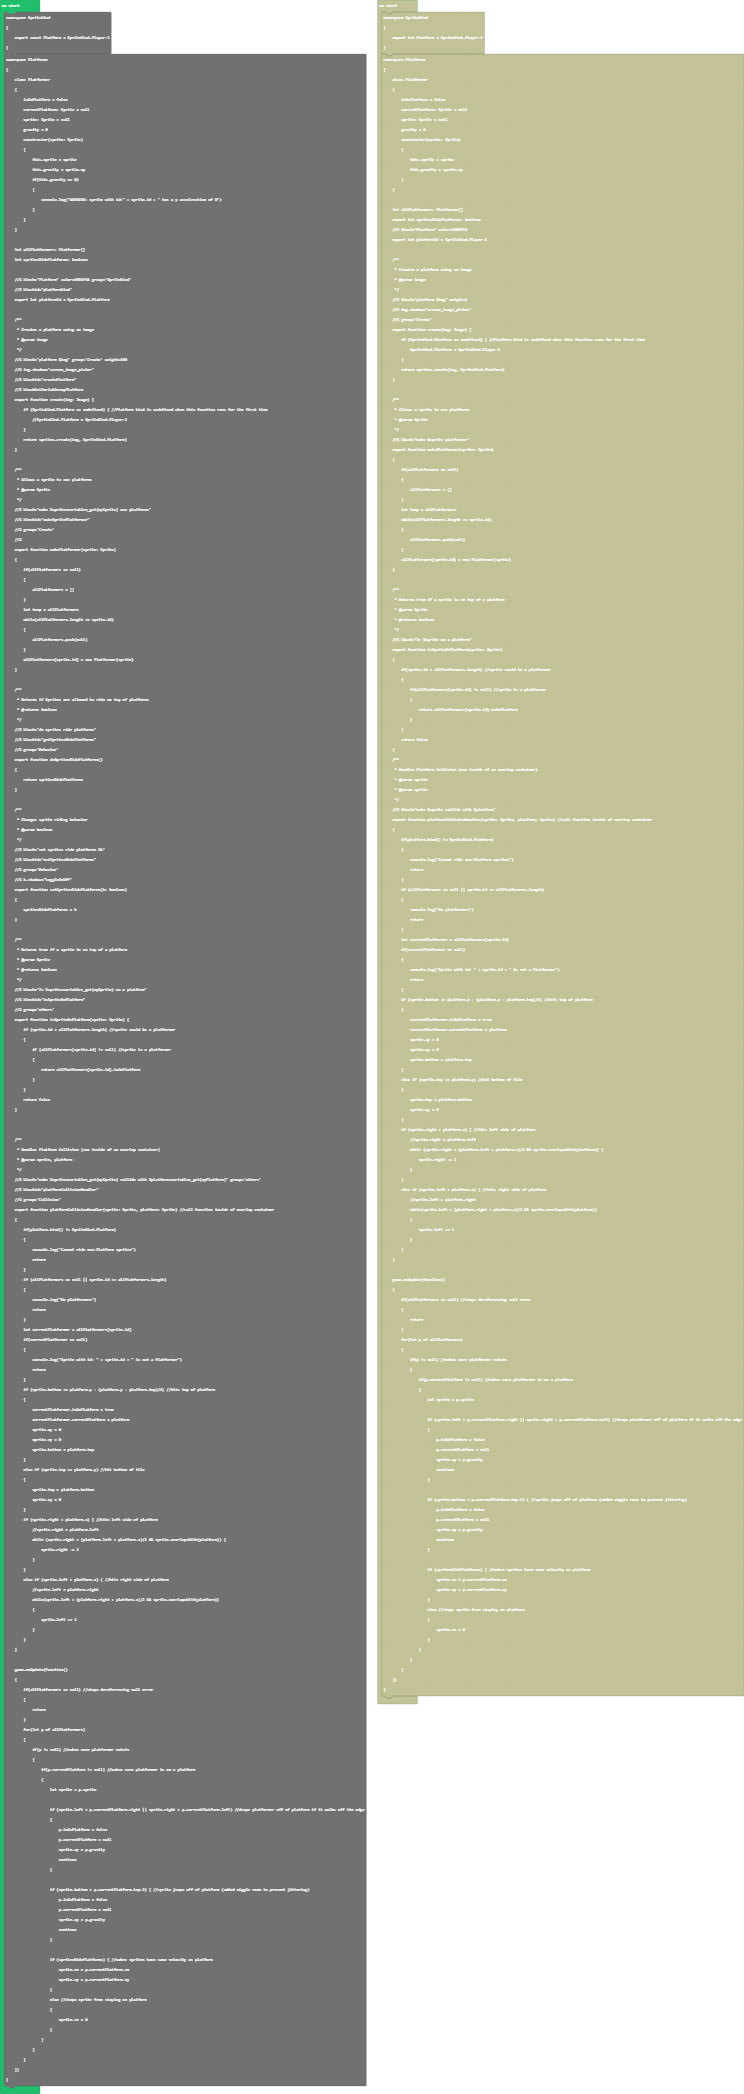
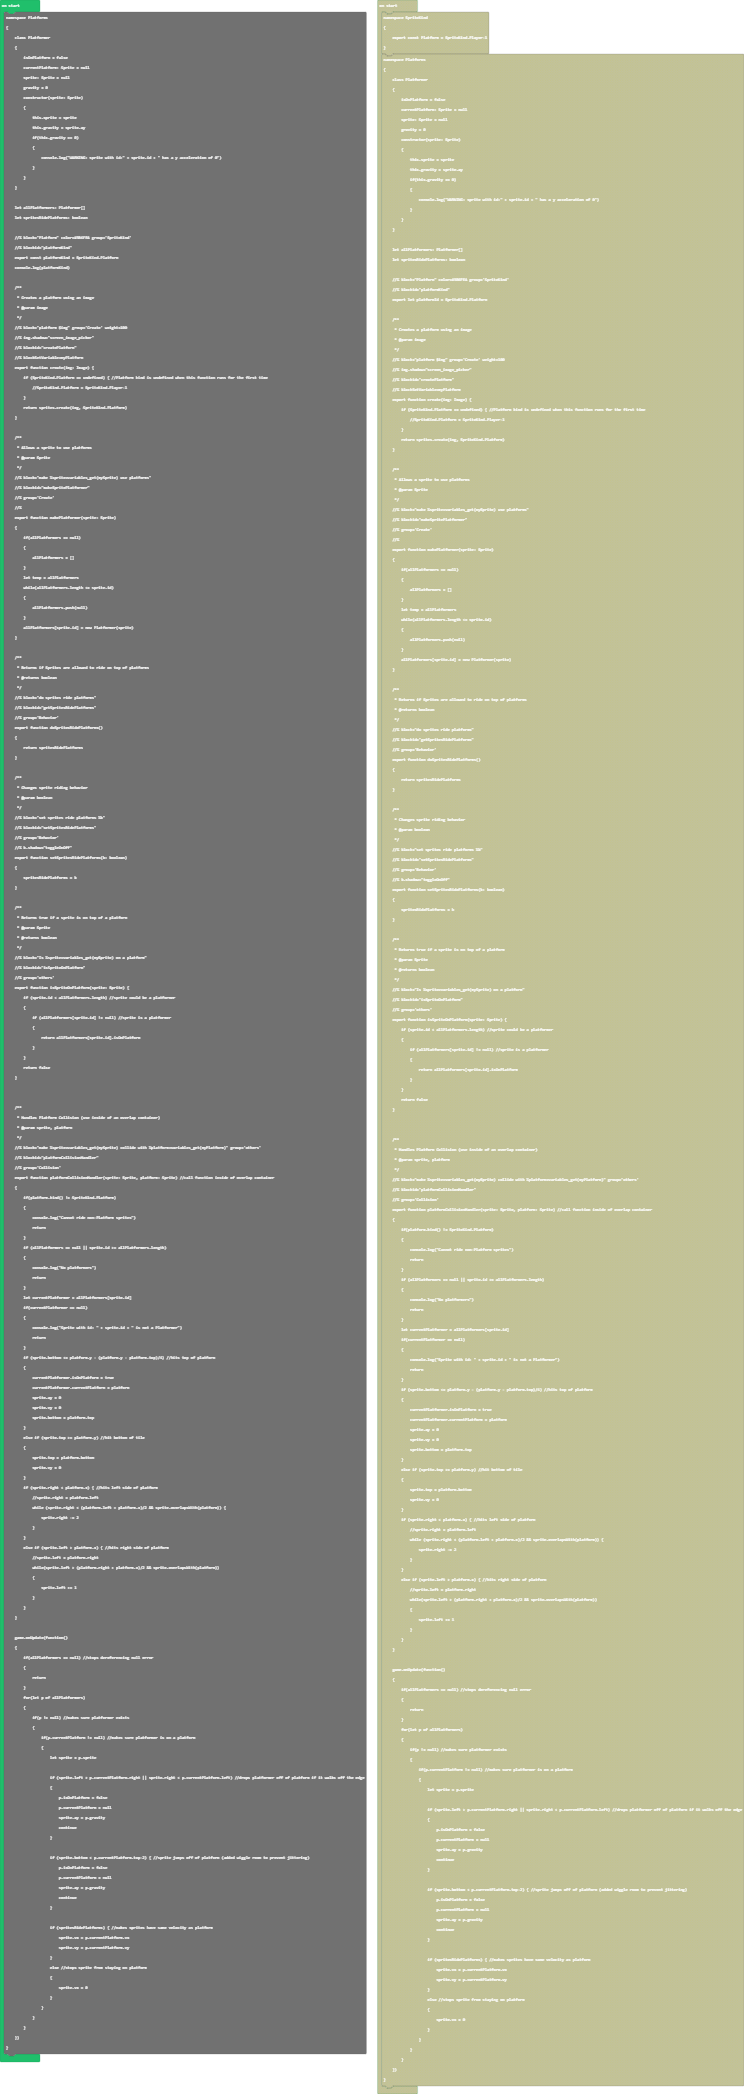
fixed issue with Platform Kind block not working

diff --git a/main.ts b/main.ts
@@ -1,7 +1,8 @@
-namespace SpriteKind
-{
+namespace SpriteKind {
     export const Platform = SpriteKind.create()
 }
+//% color=190 weight=100 icon="\uf151" block="Platforms" advanced=true
+//% groups='["Create", "SpriteKind", "Behavior", "Collision", "others"]'
 namespace Platforms
 {
     class Platformer
@@ -23,10 +24,17 @@ namespace Platforms
 
     let allPlatformers: Platformer[]
     let spritesRidePlatforms: boolean
-    
+    const platformKind = SpriteKind.Platform
+
+    /**
+     * returns SpriteKind.Platform
+     */
     //% block="Platform" color=#3B6FEA group='SpriteKind'
     //% blockid="platformKind"
-    export let platformId = SpriteKind.Platform
+    export function getPlatformKind()
+    {
+        return platformKind
+    }
 
     /**
      * Creates a platform using an image
